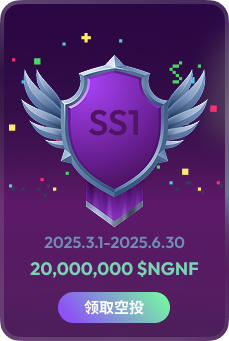
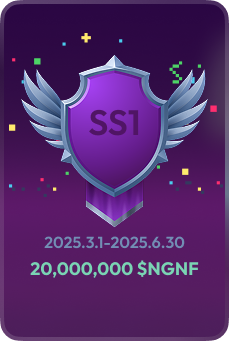
feat:d

Changed region(s): [[0.2445, 0.8504, 0.7642, 0.9677]]

diff --git a/src/pages/airdrop/index.jsx b/src/pages/airdrop/index.jsx
@@ -83,6 +83,7 @@ export default function Index() {
         }
     }
     if (shouldRender) {
+        const result = list && list.find(item => item.id == 4);
         return (
             <Root>
                 <Top>
@@ -99,6 +100,14 @@ export default function Index() {
               <div className="optionTagText">{t(`200${5 + idx}`)}</div>
             </div>
           )}
+          { idx=== 1 && result && result.isEnd  ==false &&
+          <div className='optioButton'>
+           <SmallBtnOption className='custom' onClick={e=>claimAction(e,result)}>
+           <span>领取空投</span>
+           </SmallBtnOption>
+           </div>
+          }
+
           {(idx === 3 || idx === 4) && <img className="imgIcon3Box" src={require('../../assets/airdrop/top_option_icon3.png').default} />}
        </div>
        
@@ -443,20 +452,22 @@ border-radius: 32px;
 `
 const SmallBtnOption= styled.button`
 width: fit-content;
-min-width: 112px;
-padding:6px 26px;
-height: 30px;
-border-radius: 32px;
-background: linear-gradient(258deg, #75F6A3 5.58%, #8E52F6 88.85%);
+// min-width: 112px;
+ padding:6px   10%; 
+    font-size: 12px;     
+    border-radius: 32px;  
+    height: 30px; 
+    height: clamp(26px, 2.2vw, 32px);
+  background: linear-gradient(258deg, #75F6A3 5.58%, #8E52F6 88.85%);
 font-size: 15px;
-font-weight: 600;
-display: flex;
-align-items: center;
-justify-content: center;
+  font-weight: 600;
+  display: flex;
+  align-items: center;
+  justify-content: center;
 ${({ theme }) => theme.mediaQueries.sm}{
-font-size: 15px;
-min-width: 112px;
-height: 30px;
+ background: #ff00011;
+// min-width: 112px;
+// height: 30px;
 border-radius: 32px;
 }
 `
@@ -595,6 +606,16 @@ z-index: 3;
   height: 2.125rem; /* 34px */
   z-index: 2;
 }
+.optioButton{
+position: absolute;
+width: 100%;
+bottom: 5%;
+left: 0;
+z-index: 2;
+display: flex;
+justify-content: center; 
+}
+
 .left {
 padding-top: 20px;
 padding-bottom: 30px;
